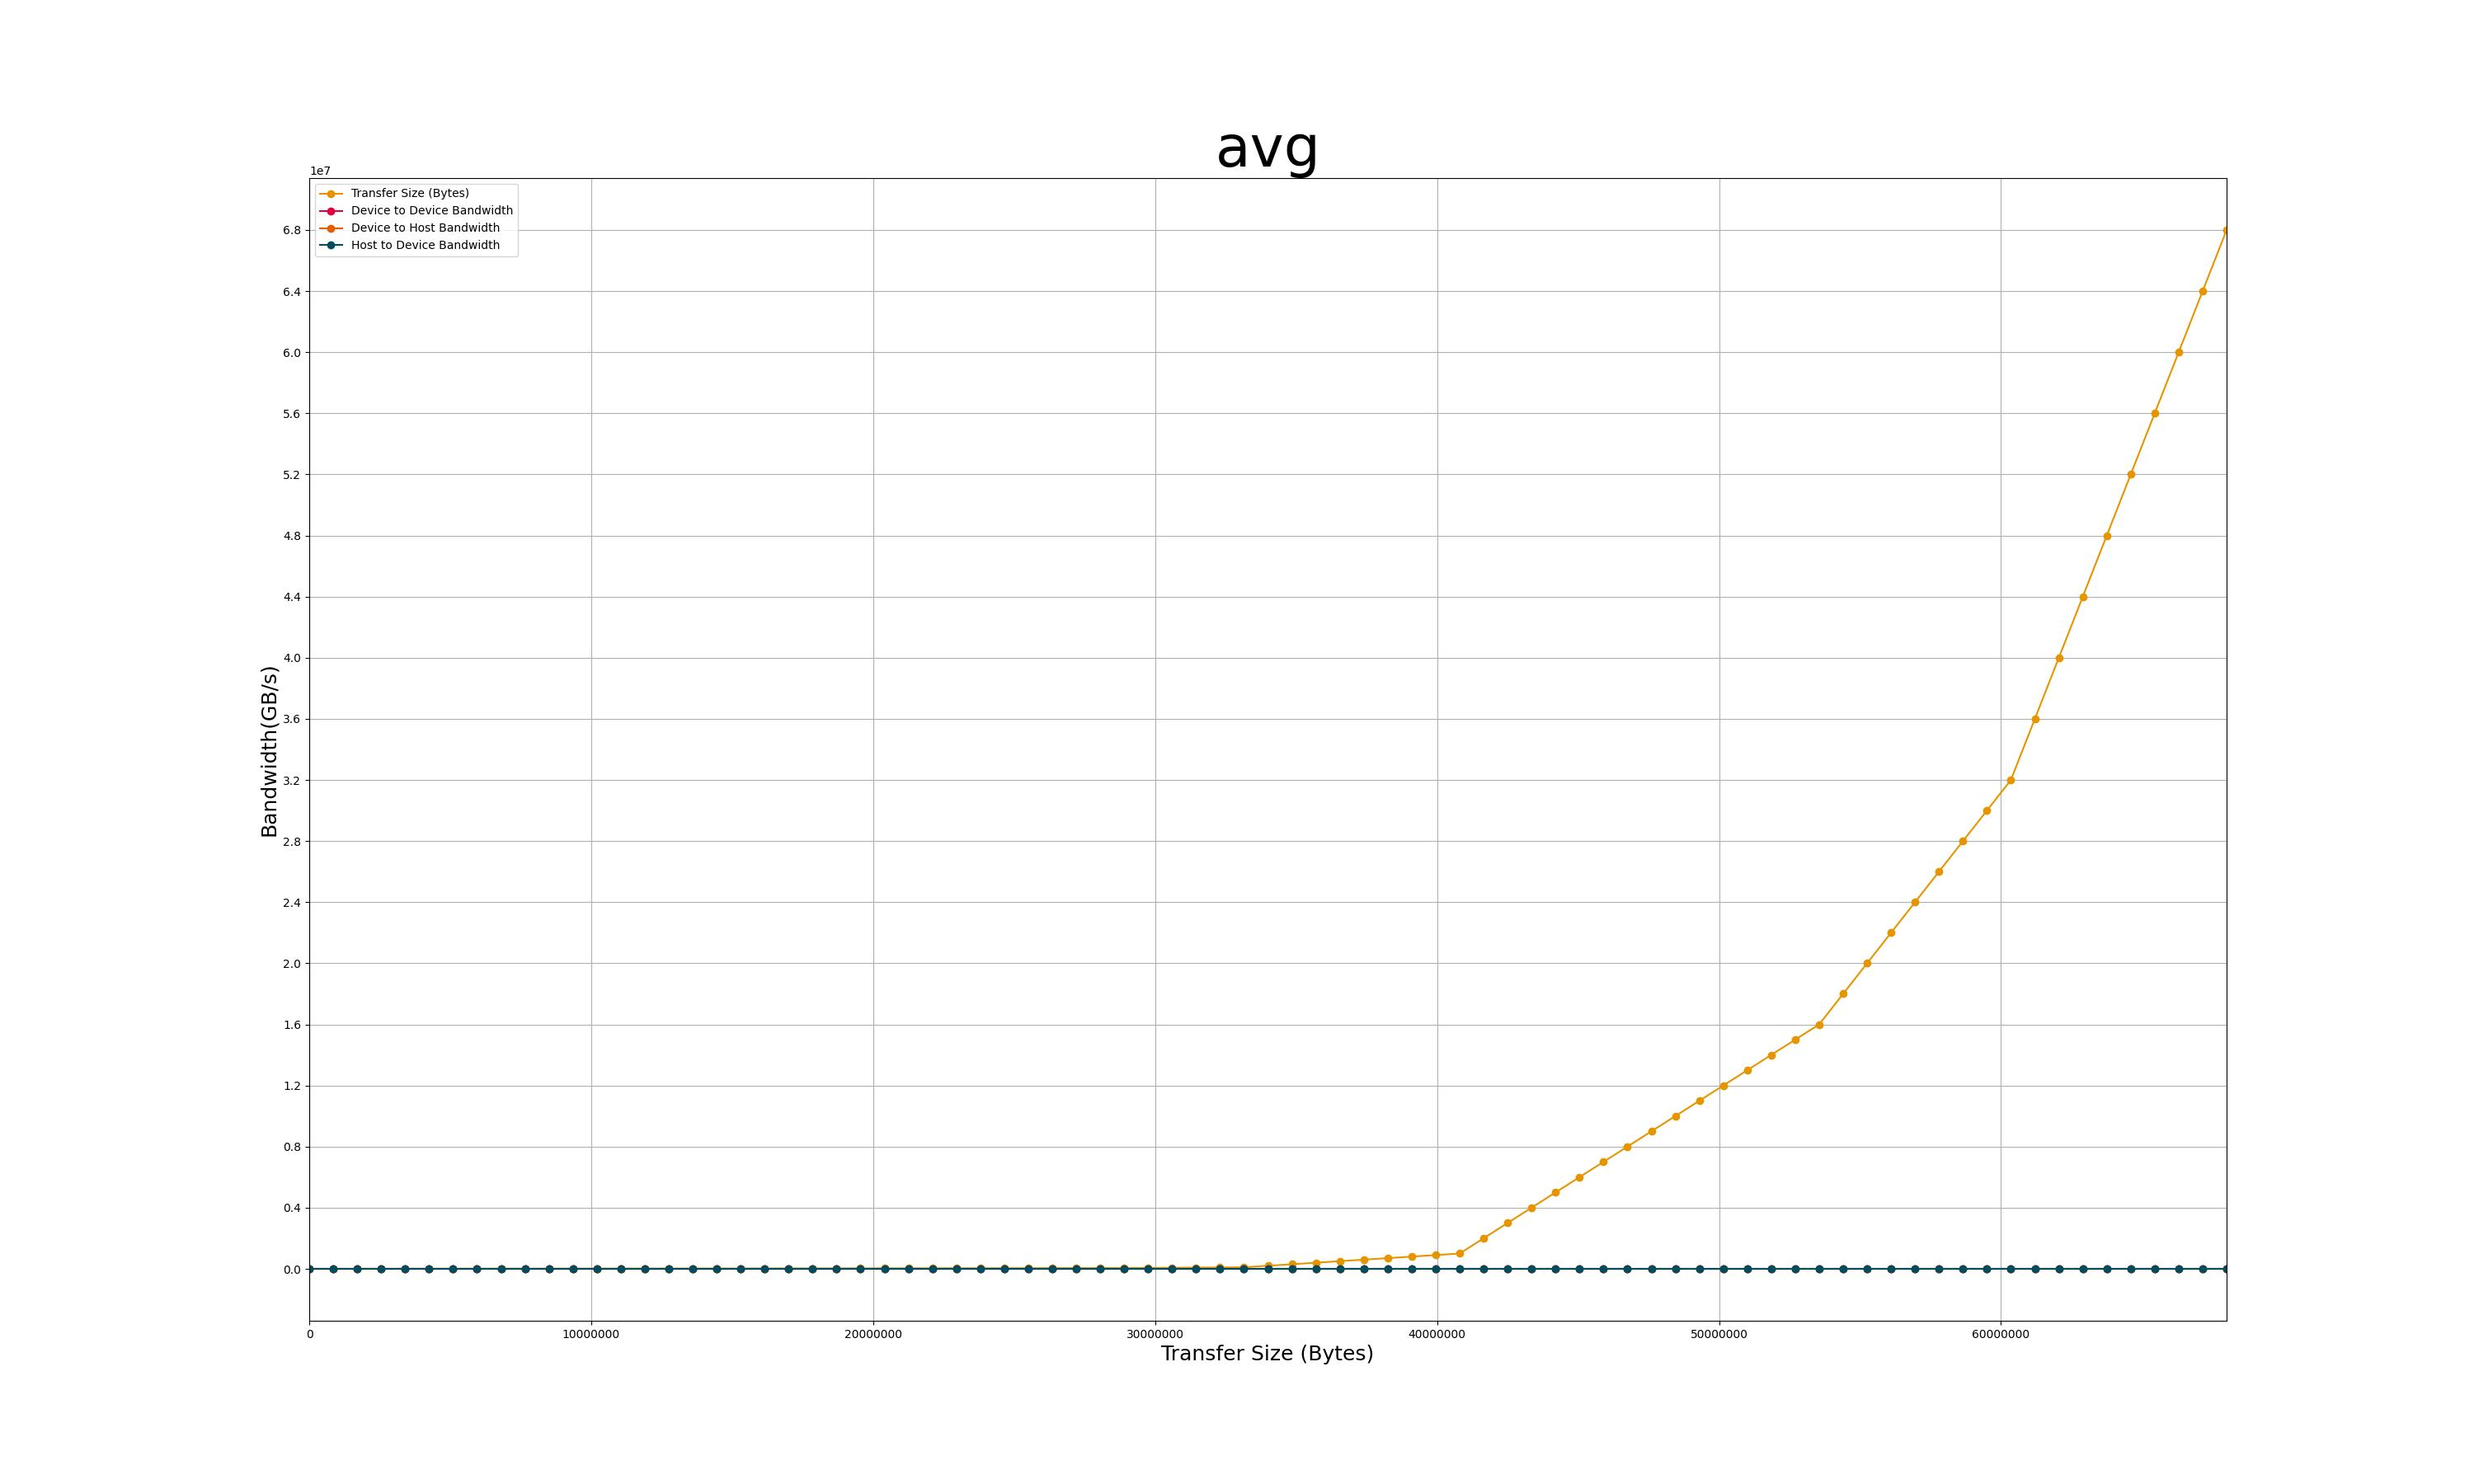
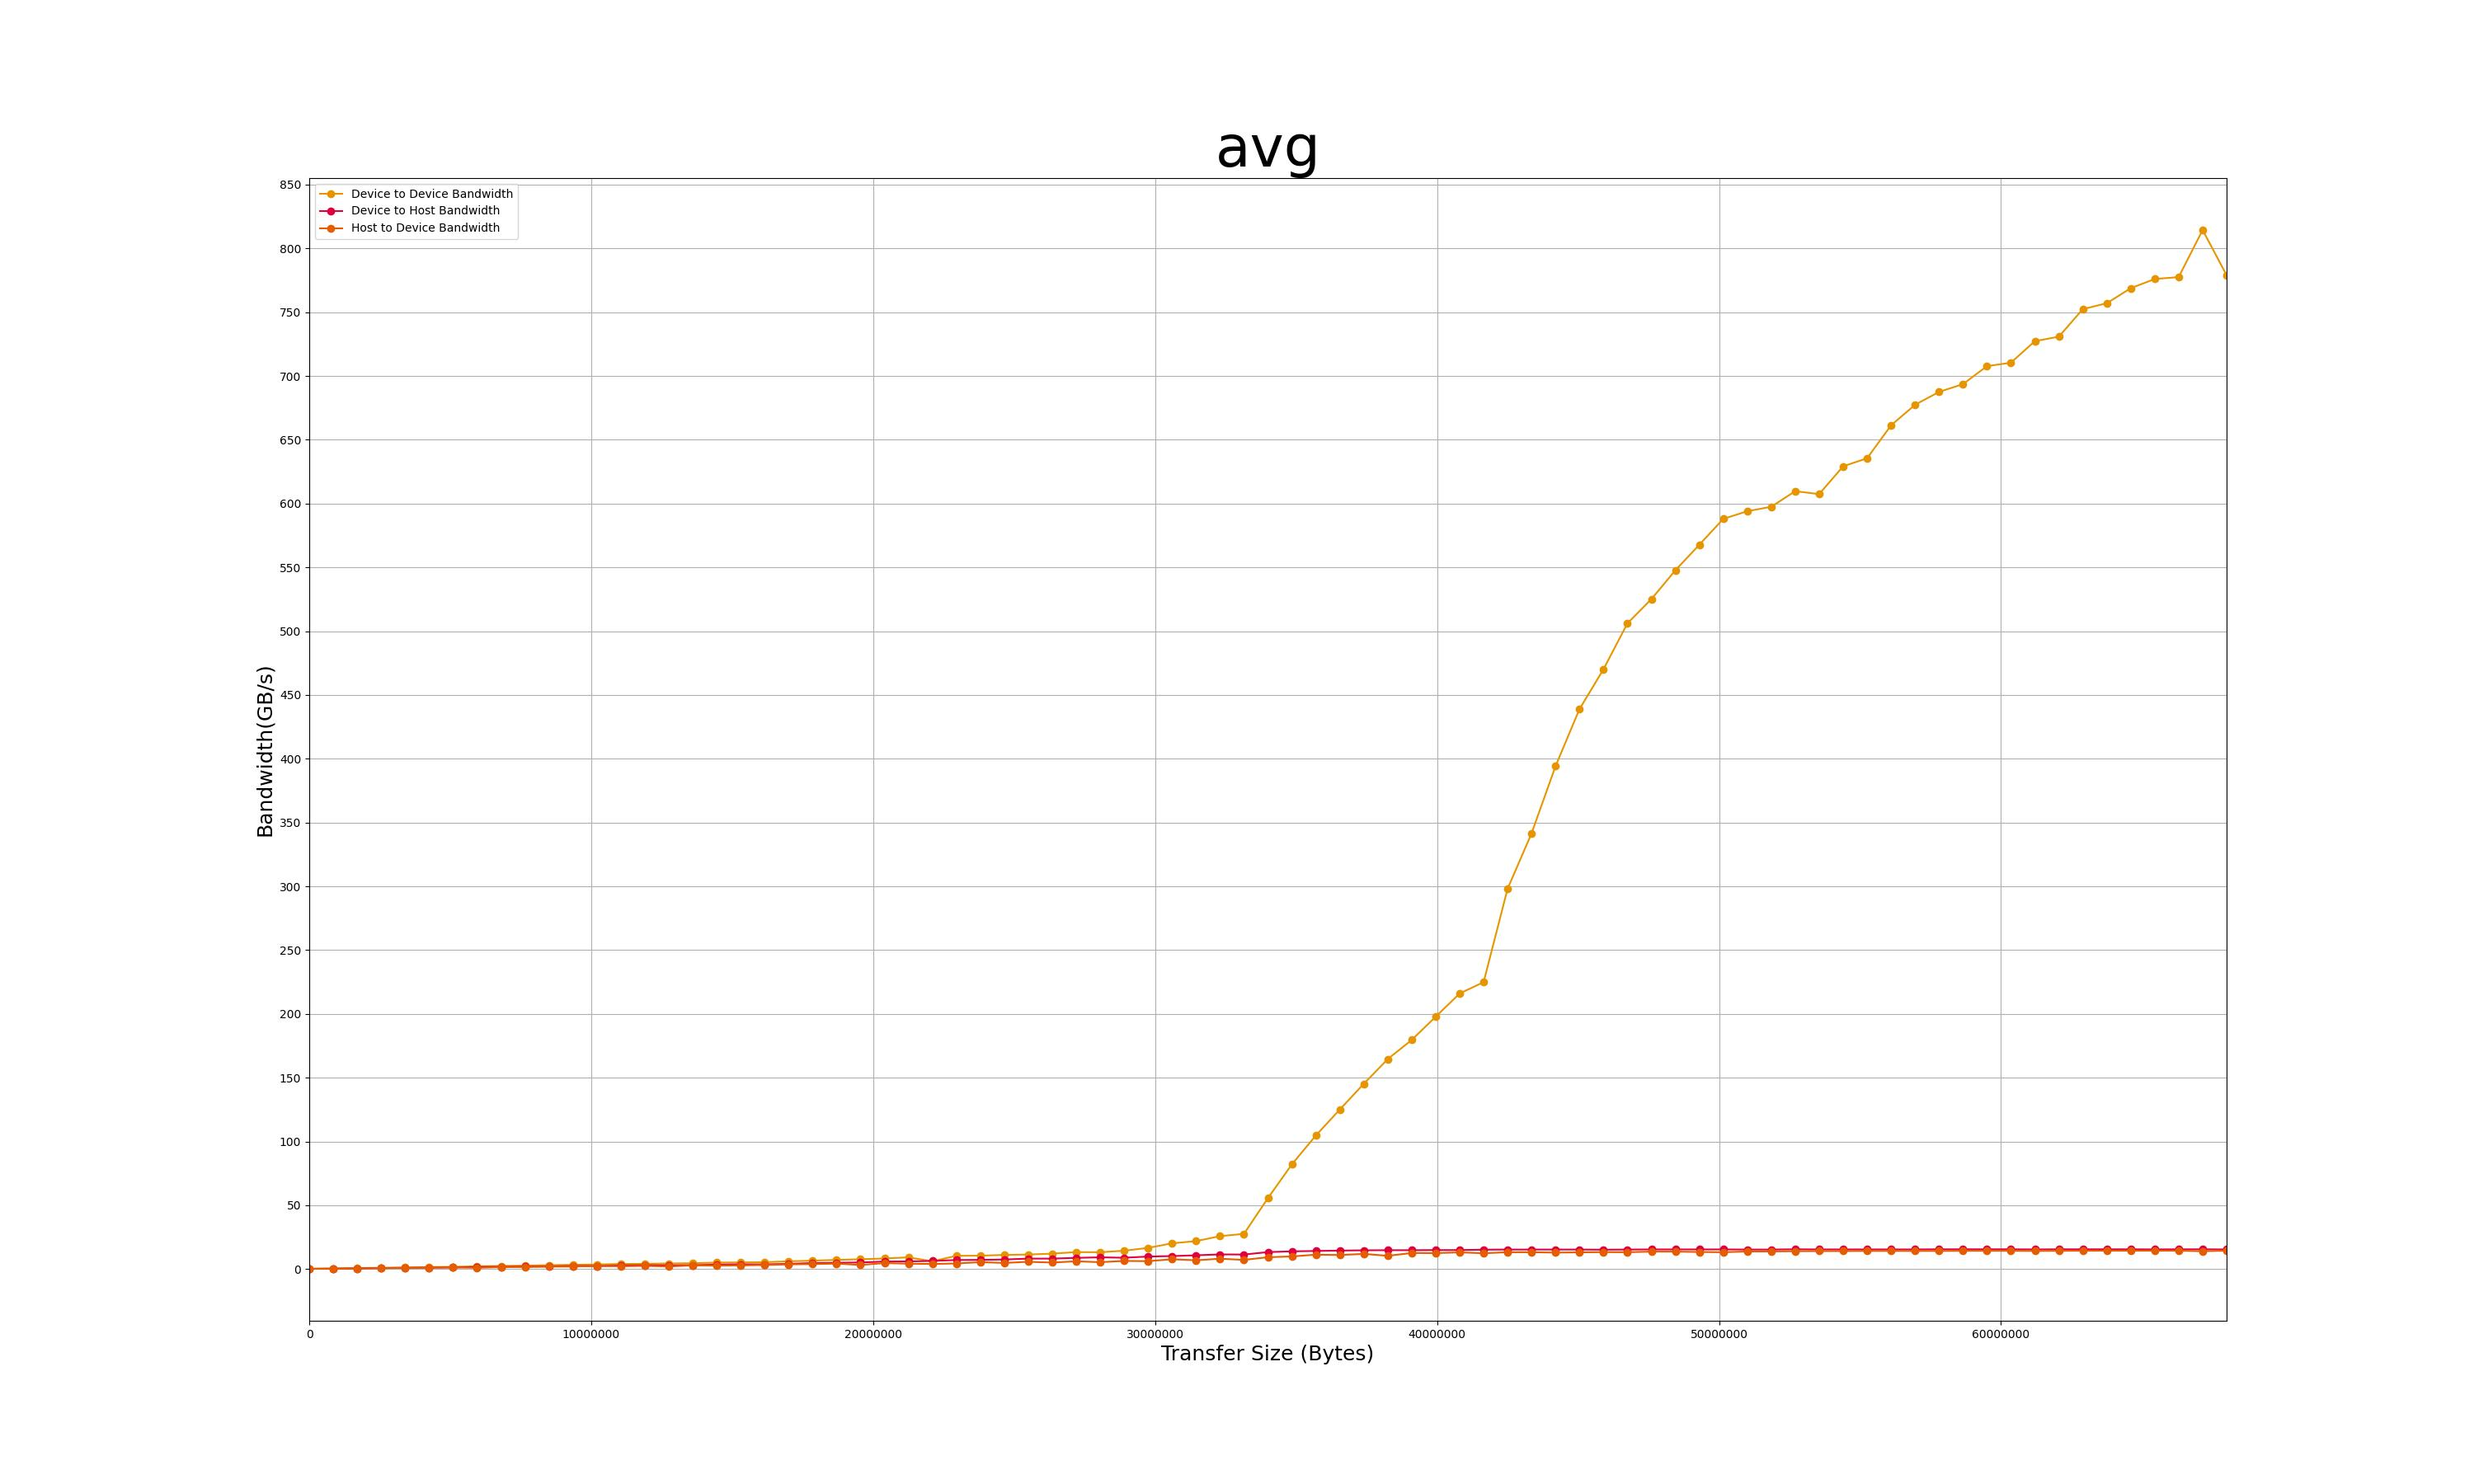
corrected the avg calculation for device_bw

diff --git a/test_handlers/bw_gpu.py b/test_handlers/bw_gpu.py
@@ -10,7 +10,7 @@ from utils.general import get_filename_without_extension
 from utils.handle_data import load_data_two_column
 
 def plot_all_files_together(bw_struct):
-    # get avg for each col of all the diferent tests and create new data fram
+    # get avg for each col of all the different tests and create new data frame
     tests = bw_struct.get_tests()
 
     avg_df = calculate_avg_of_all_tests(tests)
@@ -25,12 +25,12 @@ import pandas as pd
 
 def calculate_avg_of_all_tests(tests):
     # Initialize empty lists to store the values from all tests
-    all_columns_data = {col: [] for col in tests[0].data_pandas.columns}
+    all_columns_data = {col: [] for col in tests[0].data_pandas.columns[1:]}  # Skip the first column
 
     # Loop through each test in the tests list
     for test in tests:
-        # Loop through each column in the test data and append its values
-        for col in test.data_pandas.columns:
+        # Loop through each column in the test data (skip the first column)
+        for col in test.data_pandas.columns[1:]:  # Skip the first column
             all_columns_data[col].append(test.data_pandas[col])
 
     # Create a new DataFrame to store the averages for each column
@@ -39,8 +39,11 @@ def calculate_avg_of_all_tests(tests):
     # Create a new DataFrame with the averages, keeping the same column names as the original data
     avg_df = pd.DataFrame(avg_columns)
 
-    # Assuming you want the first column to be from tests[0], update the first column
-    avg_df.insert(0, 'col0', tests[0].data_pandas[tests[0].data_pandas.columns[0]])
+    # Get the first column from tests[0] and its header
+    first_col = tests[0].data_pandas[tests[0].data_pandas.columns[0]]
+
+    # Concatenate the first column (with its header) to the beginning of avg_df
+    avg_df = pd.concat([first_col, avg_df], axis=1)
 
     return avg_df
 

diff --git a/create_graph.py b/create_graph.py
@@ -14,7 +14,7 @@ def main():
     TestsType.GPU_BANDWIDTH_TYPE: start_bw_gpu
     }  
         
-    parser = argparse.ArgumentParser(description="Plot data from a file.")
+    parser = argparse.ArgumentParser(description="Plot data from files.")
     parser.add_argument("files", nargs='+', help="File names or directories for the input data")
     args = parser.parse_args()
 
@@ -34,13 +34,6 @@ def main():
 
             if struct_class == DeviceBw:
                 plot_all_files_together(test_struct)
-                # tests = test_struct.get_tests()
-                # print('------------------------------')
-                # print(len(tests))
-                # for test in tests:
-                #     print(test)
-                #     print("\n")
-
 
             # Add the struct to the dictionary under its class
             if struct_class not in struct_dict:

diff --git a/data_structures/device_bw_struct.py b/data_structures/device_bw_struct.py
@@ -13,15 +13,11 @@ class DeviceBw:
     def add_test(self, test: Test):
         """
         Adds a Test object to the Tests array.
-
-        :param test: Test object to be added
         """
         self.Tests.append(test)
 
     def get_tests(self):
         """
         Returns the list of Test objects.
-
-        :return: List of Test objects
         """
         return self.Tests
